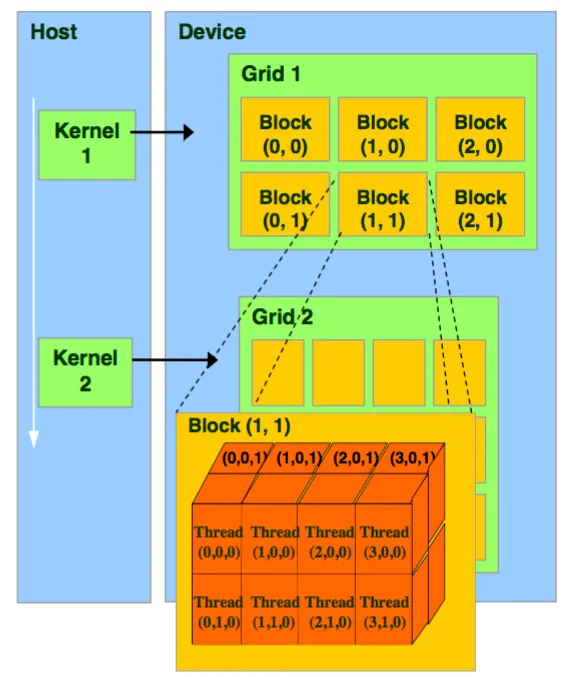
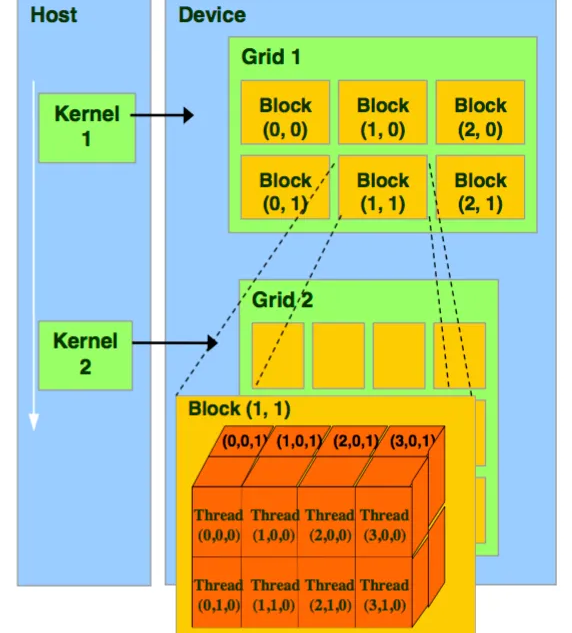
Nombres de un par de archivos

diff --git a/Memoria/capitulos/OpenMP.tex b/Memoria/capitulos/OpenMP.tex
@@ -15,9 +15,9 @@ Como hemos comentado, OpenMP opera sobre un modelo de memoria compartida en la q
 Tomaremos como punto de partida la implementación secuencial de los problemas \cite{Mantas2024}, de la cual ya disponemos.
 
 \begin{figure}[H]
-	\includegraphics[width=\linewidth]{imagenes/DiagramaClasesProblemas.png}
-	\caption{Diagrama de Clases de los problemas}
-	\label{fig:DiagramaProblemas}
+	\includegraphics[width=\linewidth]{imagenes/Diagrama-Clases-Problemas.png}
+	\caption{Diagrama de Clases de los problemas OMP}
+	\label{fig:OMP-Diagrama-Problemas}
 \end{figure}
 
 Como comentamos anteriormente, no nos centraremos en la resolución de los problemas \textit{per se}, puesto que ésta se nos da ya hecha y corregida, sino que nuestros esfuerzos irán en implementar los métodos de resolución en ambas formas de paralelismo, y buscar la máxima eficiencia. Para facilitar la implementación y la cohesión del código, definimos una clase abstracta \textit{Problema} de la cual heredarán los cuatro problemas.
@@ -25,14 +25,14 @@ Como comentamos anteriormente, no nos centraremos en la resolución de los probl
 El siguiente paso, por tanto, será realizar una implementación secuencial de los métodos, partiendo de los algoritmos que previamente hemos comentado, Runge-Kutta, Adams-Bashford, y Adamd-Bashford-Moulton, a saber, algoritmos \ref{alg:RungeKutta4}, \ref{alg:AdamsBashford}, y \ref{alg:AdamsBashfordMoulton}, respectivamente. El lenguaje elegido será C++, para luego poder añadir la parte de OpenMP o CUDA.
 
 \begin{figure}[H]
-	\includegraphics[width=\linewidth]{imagenes/DiagramaClasesMetodos.png}
-	\caption{Diagrama de Clases de los métodos}
-	\label{fig:DiagramaMetodos}
+	\includegraphics[width=\linewidth]{imagenes/Diagrama-Clases-Metodos.png}
+	\caption{Diagrama de Clases de los métodos OMP}
+	\label{fig:OMP-Diagrama-Metodos}
 \end{figure}
 
 El planteamiento que se hace con los métodos es similar al de los problemas, una clase abstracta padre de la cual puedan heredar los métodos. Además, en la clase padre \textit{Metodo} hemos implementado diversas funciones auxiliares que nos van a facilitar el trabajar con vectores. Con este diseño, a través de la herencia y el polimorfismo, podríamos aumentar el alcance de nuestro proyecto añadiendo nuevos métodos o más problemas sin dificultad ninguna.
 
-Ahora que tenemos una primera maqueta funcional (aunque poco eficiente), podremos comenzar con el trabajo en paralelo. De cara a nuestro proyecto, lo primero que debemos tener en cuenta es que no podemos simplemente paralelizar el bucle principal con el que trabajamos (e.g. el bucle while en el algoritmo \ref{alg:AdamsBashford}) porque cada iteración necesita de la anterior para calcular el siguiente paso. Deberemos buscar por tanto otras formas de atacar el problema. En el caso de OpenMP hemos planteado dos formas, paralelismo por operaciones, y por elementos.
+Ahora que tenemos una primera maqueta funcional (aunque poco eficiente), podremos comenzar con el trabajo en paralelo. De cara a nuestro proyecto, lo primero que debemos tener en cuenta es que no podemos simplemente paralelizar el bucle principal con el que trabajamos (e.g. el bucle while en el algoritmo \ref{alg:AdamsBashford}) porque cada iteración necesita de la anterior para calcular el siguiente paso. Deberemos buscar por tanto otras formas de atacar el problema. En el caso de OpenMP hemos planteado dos formas, paralelismo por operaciones, y por componentes.
 
 \creaSeccion{Paralelismo por Operaciones}
 
